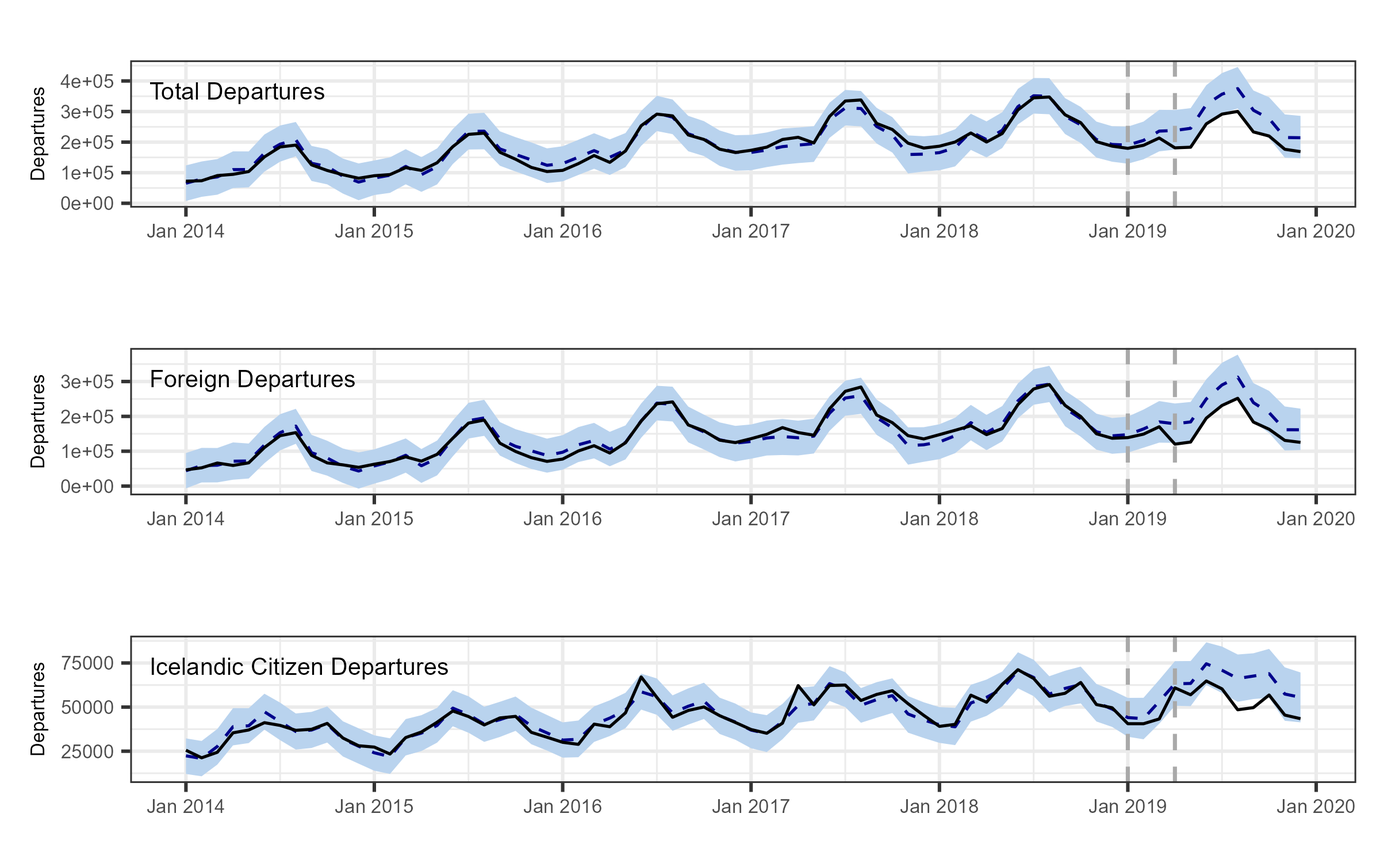
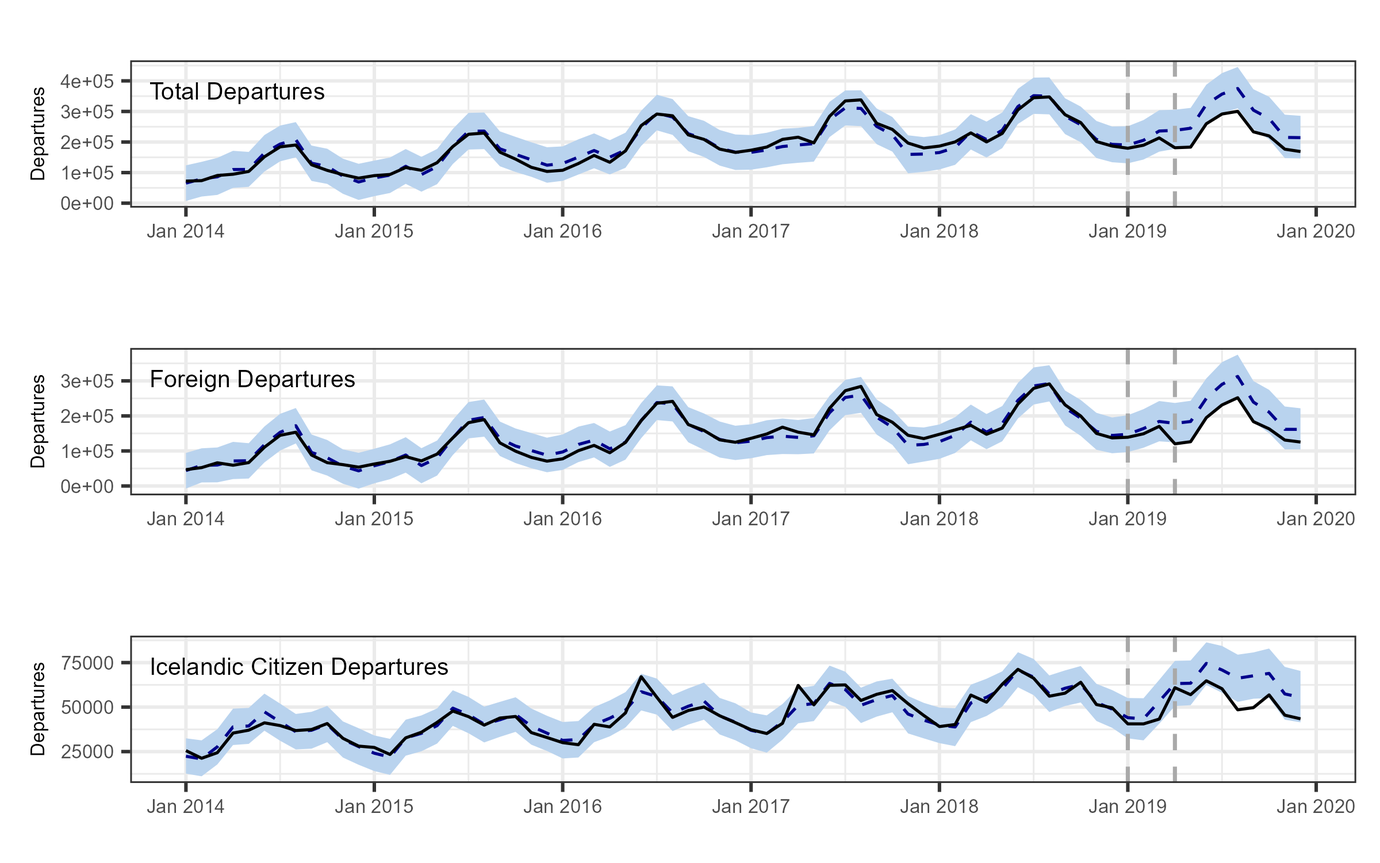
Updates from Overleaf

diff --git a/Paper/New.tex b/Paper/New.tex
@@ -1,5 +1,5 @@
 % AER-Article.tex for AEA last revised 22 June 2011
-\documentclass{AEA}
+\documentclass[12pt]{article}
 
 %%%%%% NOTE FROM OVERLEAF: The mathtime package is no longer publicly available nor distributed. We recommend using a different font package e.g. mathptmx if you'd like to use a Times font.
 % \usepackage{mathptmx}
@@ -13,19 +13,24 @@
 \usepackage{float}
 \usepackage{threeparttable}
 \usepackage{subcaption} % for subfigure/subtable style subcaptions
+ \usepackage{hyperref}
 \usepackage{pdflscape}
 \usepackage{adjustbox}
 \usepackage{rotating}
-\usepackage{fancyhdr}
-\pagestyle{fancy}
-\fancyhf{} % Clear header and footer
-\fancyfoot[C]{\textit{\small\thepage}} % Centered page number at the bottom
-\renewcommand{\headrulewidth}{0pt} % Centered page number at the bottom
-\pagestyle{fancy}
+%\usepackage{fancyhdr}
+\usepackage[margin=1in]{geometry}
+%\pagestyle{fancy}
+%\fancyhf{} % Clear header and footer
+%\fancyfoot[C]{\textit{\small\thepage}} % Centered page number at the bottom
+%\renewcommand{\headrulewidth}{0pt} % Centered page number at the bottom
+%\pagestyle{fancy}
 % Your document content here
 \captionsetup[figure]{position=top}
 \captionsetup[subfigure]{skip=6pt,justification=centering}
 \raggedbottom
+
+\usepackage{setspace}
+\doublespacing
 % The mathtime package uses a Times font instead of Computer Modern.
 % Uncomment the line below if you wish to use the mathtime package:
 %\usepackage[cmbold]{mathtime}
@@ -61,25 +66,25 @@
 \renewcommand{\fnum@figure}[1]{\figurename~\thefigure: }
 \makeatother
 
-\begin{document}
-
 
 \title{WOW Factor: Measuring Labor Loss from a Negative Tourism Supply Shock in Iceland}
 %\author{Luke Miller}
 \date{\today}
 
+\begin{document}
+
+\maketitle
+\clearpage
+
 \begin{abstract}
 Tourism-dependent economies face substantial risks when international visitor flows are disrupted, yet evidence on the short-run labor market effects of sudden tourism supply shocks remains limited. This paper exploits the unexpected bankruptcy of WOW Air, a low-cost airline, in 2019 as a natural experiment that sharply curtailed international tourism to Iceland. Using a Bayesian Structural Time Series model, I estimate labor market outcomes relative to a counterfactual in which the airline did not exit. I find that WOW Air’s collapse reduced international passenger arrivals by more than 20\% and tourism employment by 8\% over the subsequent nine months, relative to the counterfactual, including a 4\% year-over-year decline in tourism jobs. Excluding air transport, tourism employment declined by 6.6\% relative to the counterfactual. At the national level, unemployment was nearly 50\% higher than would otherwise have been expected. These results highlight the vulnerability of tourism-dependent economies to sudden transport disruptions.
 \\ 
 \\
-\normalfont
-\noindent\textbf{Keywords:}  tourism employment; air transport; tourism supply shock; economic vulnerability; counterfactual analysis;  natural experiment
+\textbf{Keywords:}  tourism employment; air transport; tourism supply shock; economic vulnerability; counterfactual analysis;  natural experiment
 \end{abstract}
+\clearpage
 
 
-\maketitle
-
-\pagebreak
 
 \section{Introduction}\label{sec:Introduction}
 The COVID-19 pandemic revealed the acute vulnerabilities of tourism-dependent economies, with international shutdowns exposing the fragility of over-reliance on a single sector. \citet{duro_2021_covid19} show that regions with higher tourism concentrations experienced disproportionate exposure to pandemic losses. \citet{jczmyk_2023_impact} identify how tourist behaviors and choices shifted in response to health risks and uncertainty. \citet{yeh_2020_tourism} and \citet{kreiner_2020_national} evaluate optimal recovery strategies, while \citet{fotiadis_2021_the} and \citet{kare_2020_impact} provide forecasts of tourism impacts and recovery trajectories under varying conditions. \citet{sigala_2020_tourism} reflects more broadly on the changed research landscape, emphasizing the unprecedented scope of the pandemic and the challenge of generalizing from its impacts. Taken together, this literature highlights how tourism reliance can create vulnerabilities for associated labor markets, but also how unique the pandemic was in both scale and global reach. At the same time, it leaves unresolved the question of replicability: while COVID-19 exposed the sector’s vulnerabilities in an extraordinary way, the shock was shaped by many confounding factors beyond tourism itself, making it difficult to entirely isolate effects or anticipate the size of future disruptions. This uncertainty underscores the importance of identifying more tractable episodes to guide policy responses aimed at mitigating the labor market and fiscal risks of sudden tourism contractions.
@@ -87,6 +92,7 @@ The COVID-19 pandemic revealed the acute vulnerabilities of tourism-dependent ec
 Beyond the pandemic, structural reliance on foreign tourism may create inherent economic vulnerabilities due to dependence on external visitor flows. \citet{nguyen_2021_the} find that a greater concentration of international tourism increases economic vulnerability, while \citet{canh_2020_domestic} show that domestic tourism can reduce it. \citet{wang_2022_international} identify a threshold effect: at lower income levels international tourism heightens vulnerability, while at higher incomes it promotes diversification. However, these studies rely on international panel regressions where vulnerability is measured through the Economic Vulnerability Index (EVI) \citep{feindouno_2016_the}, rather than observed economic responses. Because the EVI includes export concentration as a component, and international tourism is classified as an export, this creates endogeneity concerns. Moreover, the index captures exposure to shocks but not resilience to withstand them. Meanwhile, the astounding resilience of the industry in response to crises that dissuade visits, is highlighted in a complementary set of studies. \citet{saleh_2011_do} document that tourism shocks in Thailand are transitory, and \citet{yucel_2020_are} extend this finding to the top 20 tourism-receiving countries, with demand reverting once structural breaks are accounted for. \citet{morakabati_2019_a} shows that, following the Arab Spring, regional international tourism receipts recovered faster than the broader economy. These studies illustrate both the fragility and resilience of the sector, but provide little causal evidence of how sudden supply disruptions affect labor markets or how policy may mitigate their impacts. 
 
 Tourism has also been closely linked to economic growth. \citet{gwenhure_2017_tourism} synthesize this literature into four hypotheses: that tourism causes growth, that growth causes tourism, that the relationship is bidirectional, or that there is no causal link. Studies provide evidence in support of each, though the tourism-led growth channel receives somewhat stronger backing overall. Within island contexts, results are less conclusive. \citet{roudi_2018_new} find bi-directionality between tourism and growth in small island developing states, while \citet{kumar_2021_tourism} show country-dependent effects in nations in the pacific. Using an augmented Solow growth framework, Using panel data from 19 countries, \citet{seetanah_2011_assessing} find that tourism contributes more significantly to economic growth in island economies than in other developing and developed countries. At a regional scale, \citet{faber_2019_tourism} find that tourism in Mexico produces strong local employment and GDP gains through manufacturing spillovers, though these effects are muted at the national level. This body of work underscores the importance of tourism for growth and employment, but offers limited insight into contractionary episodes or how labor market rigidities might constrain adjustment when shocks occur.
+
 
 These strands of research establish that tourism shocks are closely tied to labor outcomes, that tourism-dependent economies face structural vulnerabilities - yet rebound quickly, and that tourism plays a central role in growth. Low-cost carriers (LCCs) provide a further dimension to the analysis, as WOW Air itself operated under this model. Low-Cost Carriers (LCCs) have been shown to play a unique role in shaping tourism supply. \citet{alves_2017_price} describe how LCCs operate as price-discriminating complements, targeting more price-sensitive markets. Case studies across Saudi Arabia, Poland, Spain, New Zealand, and Italy demonstrate that LCC entry expands demand by creating new, previously uncontested markets \citep{alsumairi_2017_a, pulina_2010_have, rey_2011_effect, hongtsui_2017_does, verarebollo_2009_spread}. By artificially inflating arrivals through lower fares and novel routes, LCCs increase reliance on an expanded visitor base that may vanish if those routes are withdrawn. Their sudden contraction therefore amplifies the consequences of supply shocks, as other carriers are often unable to replicate the same capacity or reach the same markets. At the same time, because LCCs create new demand rather than reshuffling existing passengers, their exit provides a sharp and isolated test of how supply-side shocks cascade into labor markets. 
 \begin{sloppypar}
@@ -105,7 +111,6 @@ Using a Bayesian Structural Time Series (BSTS) model~\citep{brodersen_2015_infer
 Greenland, Denmark, Norway, and the Faroe Islands are used as control groups to estimate Iceland’s counterfactual. These countries were selected based on geographic proximity and similarities in size, tourism concentration, seasonality, and export reliance, as summarized in Table \ref{tab:summary_table}. Sweden, Ireland, and the United Kingdom were also considered, but ultimately excluded due to larger differences in size, economic diversification, and geography. While Greenland and the Faroe Islands are autonomous territories within the Kingdom of Denmark, Denmark itself is included as a separate control due to its role as a primary regional trading partner whose economic fluctuations often co-vary with those of Iceland and its territories. As shown in Appendix \ref{sec:Robustness}, the estimated impacts are robust to alternative specifications of the control group.
 
 \input{Tables/Table 1.tex}
-
 \subsection{Dataset}
 
 I assemble a monthly cross-national time-series dataset of tourism and economic indicators from national statistical agencies.\footnote{Iceland: \textit{hagstofa.is} (2024); Faroe Islands: \textit{hagstova.fo} (2024); Greenland: \textit{bank.stat.gl} (2024); Denmark: \textit{statbank.dk} (2024); Norway: \textit{ssb.no} (2024).} Nordic regional data was collected from \textit{nordicstatistics.org}.\footnote{\textit{nordicstatistics.org} (2024).} Where official monthly data were unavailable, I supplemented with the World Bank Open Data Portal\footnote{\textit{data.worldbank.org} (2024).} and The Global Economy.\footnote{\textit{theglobaleconomy.com} (2024).} Indicators were excluded if coverage was incomplete across the pre- or post-intervention period, if they were linear combinations of other variables, or if they were subject to high measurement noise (e.g., survey data with small samples).  
@@ -155,7 +160,7 @@ Control selection is handled via spike-and-slab priors, which induce sparsity an
     \caption{Posterior Inclusion Probabilities}
     \label{fig:coefficients_arrivals_plot}
 
-    \includegraphics[width=1\textwidth]{Figures/Figure 2.pngg}
+    \includegraphics[width=1\textwidth]{Figures/Figure 2.png}
 
     \vspace{0.3em}
 
@@ -165,19 +170,21 @@ Control selection is handled via spike-and-slab priors, which induce sparsity an
     \textit{Note:} Each cell represents a separate regression. The country listed under Treated Country is who we are applying the treatment to. All others (less Iceland) are used as controls groups. The columns represent varying length of training periods used. 1 year prior compares the treatment effect using 1 year of pre-trend data. The number of stars denotes the significance level of the coefficient estimates based on p-values, where *** indicates $p<0.01$, ** indicates $p<0.05$, and * indicates $p<0.10$.}\par}
 \end{figure}
 
+
 \paragraph{Model Calibration}
 To implement the model, I use the \texttt{CausalImpact} package in R \citep{brodersen_2015_inferring}. Being a flexible tool, it allows for numerous user calibrating inputs. The choice of pre-intervention window reflects a trade-off between having longer training periods and ensuring rich covariate coverage. Data availability improves substantially after 2014 (see Figure \ref{fig:recent_information_bias}), so I test specifications beginning in each year from 2000–2018, with treatment fixed in April 2019. Figure \ref{fig:time_calibration} reports cumulative impacts across these specifications. The estimates vary somewhat by training start date but consistently indicate a large causal reduction in airline departures. Given structural changes in Iceland’s economy toward tourism beginning around 2012,\footnote{WOW Air began operations in May 2012; see \citet{diebold_1987_structural} for discussion of structural breaks.} I adopt 2014 as the start year for the main analysis. This balances adequate time-series coverage with robustness and placebo validity. Across all training windows (2000–2018), the mean cumulative impact is approximately –487,000 passengers and the median –458,000, with the 2014 specification yielding an estimated –538,000 passengers.
 
 \begin{figure}[h!]
     \centering
-        \caption{Cumulative effects across pre-periods}
-    \includegraphics[.9\textwidth]{Figures/Figure 3.png}
+    \caption{Cumulative effects across pre-periods}
+    \includegraphics[width=\textwidth]{Figures/Figure 3.png}
     \label{fig:time_calibration}
-    \begin{minipage}{0.9\textwidth}
+    
+    \begin{minipage}{\textwidth}
         \footnotesize \textit{Figure Statistics:}\\
-        Median cumulative change: –458,000 departing passengers.  \\  
-        Mean cumulative change: –487,000 departing passengers.  \\  
-        2014 estimate: –538,000 departing passengers.
+        Median cumulative change: --458,000 departing passengers.\\
+        Mean cumulative change: --487,000 departing passengers.\\
+        2014 estimate: --538,000 departing passengers.
     \end{minipage}
 \end{figure}
 
@@ -249,7 +256,7 @@ While this pattern is not formally tested, the results suggest that the lost cap
     \makeatother
 
     \resizebox{\textwidth}{!}{%
-      \input{Tables/passenger_nationality}%
+      \input{Paper/Figures/Figure 6b}%
     }
 
     \let\table\origtable \let\endtable\origendtable \let\caption\origcaption
@@ -273,7 +280,6 @@ Having shown that the closure of WOW Air resulted in a significant tourism suppl
 \centering
 \caption{National labor impacts}
 \label{fig:national_labor_grouped}
-
 % --- Top panel: summary table ---
 \begin{subfigure}[t]{\textwidth}
   \centering
@@ -307,7 +313,7 @@ Having shown that the closure of WOW Air resulted in a significant tourism suppl
   \centering
   {\scriptsize \subcaption{Monthly Effect on Unemployed Persons and Unemployment Rate}}
   \vspace{-0.5em} % slightly tighter above the graphic (like your previous figure)
-  \includegraphics[width=0.72\linewidth]{Figures/Figure 7a.png}
+  \includegraphics[width=0.9\linewidth]{Figures/Figure 7a.png}
 
   \vspace{0.25em}
   \parbox{\linewidth}{\footnotesize \textit{Note:} Solid line shows observed values and dashed line shows the synthetic counterfactual. Monthly series are plotted as differences relative to the counterfactual}
@@ -418,9 +424,6 @@ First, I vary the set of control countries to ensure that results are not driven
 \end{table}
 
 
-
-
-
 \subsubsection{Covariate Grouping Selection}\label{sec:robustness2}
 
 Second, I test whether results depend on the grouping of covariates. Referring back to Table \ref{tab:information_asymmetry}, I estimate the model using only tourism-related indicators, and compare it with specifications that include alternative groupings such as transport, wages, or other economic indicators. As shown in Table \ref{tab:choice_control_coeffs}, estimated impacts range from –17.5\% to –24\% regardless of grouping. Extreme values are associated with lower prior fit (higher RMSE), reinforcing the choice to use tourism indicators in the main specification.  
@@ -467,9 +470,10 @@ In this specification, the set of covariates $x$ is restricted to tourism-relate
 \begin{figure}[h]
 \centering
 \caption{Projected Monthly Differences (No Time-Series Elements)}
-\includegraphics[width=\textwidth]{Figures/Figure 9.png}
-\begin{minipage}{0.6\textwidth}
-\footnotesize Notes: Difference between observed and estimated counterfactual monthly departures under a model without time-series elements.
+\includegraphics[width=\textwidth,height=0.7\textheight,keepaspectratio]{Figures/Figure 9.png}
+\begin{minipage}{0.8\textwidth}
+\footnotesize
+\textit{Notes:} Difference between observed and estimated counterfactual monthly departures under a model without time-series elements.
 \end{minipage}
 \label{fig:ts_drop_pointwise}
 \end{figure}
@@ -477,9 +481,10 @@ In this specification, the set of covariates $x$ is restricted to tourism-relate
 \begin{figure}[h]
 \centering
 \caption{Projected Cumulative Differences (No Time-Series Elements)}
-\includegraphics[width=\textwidth]{Figures/Figure 10.png}
-\begin{minipage}{0.6\textwidth}
-\footnotesize Notes: Cumulative difference between observed and estimated counterfactual departures under a model without time-series elements.
+\includegraphics[width=\textwidth,height=0.7\textheight,keepaspectratio]{Figures/Figure 10.png}
+\begin{minipage}{0.8\textwidth}
+\footnotesize
+\textit{Notes:} Cumulative difference between observed and estimated counterfactual departures under a model without time-series elements.
 \end{minipage}
 \label{fig:ts_drop_cumulative}
 \end{figure}
@@ -518,8 +523,6 @@ To explore sensitivity to the pre-intervention window, I estimate this model wit
 
 \setlength{\parskip}{\baselineskip}
 \pagebreak
-
-
 
 % Remove or comment out the next two lines if you are not using bibtex.
 \clearpage

diff --git a/Paper/Tables/Table 1.tex b/Paper/Tables/Table 1.tex
@@ -6,36 +6,19 @@
     \toprule
           & \textbf{Iceland} & \textbf{Faroe Islands} & \textbf{Greenland} & \textbf{Norway} & \textbf{Denmark} & \textbf{Sweden} & \textbf{Ireland} & \textbf{UK} \\
     \midrule
-Distance to Iceland (mi.) & Distance between Iceland and Greenland Countries, Closest Distance Between Borders, Airplane flight time (globefeed.com) & - & 181 & 272 & 339 & 917 & 774 & 670 & 492 & NA & NA & NA \\
-Nearest Country & NA & 181 & 181 & 18 & - & - & - & - & - & NA & NA & NA \\
-Distance to Nearest Country & Distance between Iceland and Greenland Countries, Closest Distance Between Borders, Airplane flight time (globefeed.com) & Faroe Islands & Iceland & Canada & Multiple & Multiple & Multiple & UK & Ireland & NA & NA & NA \\
-Nordic Countries & NA & X & X & X & X & X & X & NA & NA & NA & NA & NA \\
-Capital City & NA & Reykjavik & Torshavn & Nuuk & Oslo & Copenhagen & Stockholm & Dublin & London & NA & NA & NA \\
-Coordinates & NA & N 64° 09', E 21° 56' & N 62° 01', E 6° 46' & N 64° 10', E 51° 44' & N 59° 55', E 10° 45' & N 55° 41', E 12° 34' & N 59° 20', E 18° 04' & N 53° 21', E 6° 16' & N 51° 30', E 0° 08' & NA & NA & NA \\
-Max Day Length & NA & 0.88124999999999998 & 0.82291666666666663 & 0.88194444444444442 & 0.78472222222222221 & 0.73055555555555551 & 0.77569444444444446 & 0.70833333333333337 & 0.69305555555555554 & NA & NA & NA \\
-Min Day Length & NA & 0.17152777777777778 & 0.21388888888888888 & 0.17083333333333334 & 0.24583333333333332 & 0.29236111111111113 & 0.25347222222222221 & 0.3125 & 0.3263888888888889 & NA & NA & NA \\
-Seasonality (Difference Between Longest \& Shortest Day) & https://aa.usno.navy.mil/data/Dur\_OneYear & 0.70972222222222214 & 0.60902777777777772 & 0.71111111111111103 & 0.53888888888888886 & 0.43819444444444439 & 0.52222222222222225 & 0.39583333333333337 & 0.36666666666666664 & NA & NA & NA \\
-Population 2013 & NA & 323764 & 48418 & 56483 & 5079623 & 5614932 & 9600379 & 4623816 & 64128273 & NA & NA & NA \\
-Population 2018 & NA & 352721 & 50955 & 56023 & 5311916 & 5793636 & 10175214 & 4867316 & 66460344 & NA & Faroe Tourism Numbers & https://statbank.hagstova.fo/pxweb/en/H2/H2\_\_SS\_\_SS01/ferd\_sjoloft.px/table/tableViewLayout2/ \\
-Population 2018 (million) & NA & 0.35272100000000001 & 5.0955E-2 & 5.6023000000000003E-2 & 5.3119160000000001 & 5.7936360000000002 & 10.175214 & 4.8673159999999998 & 66.460344000000006 & NA & NA & NA \\
-Tourists 2013 & NA & 900000 & 116804 & 69055 & 4778000 & 26516000 & 10980000 & 8260000 & 33567000 & NA & Greenland Tourism Numbers & https://bank.stat.gl/pxweb/en/Greenland/Greenland\_\_TU\_\_TU20/TUXUPAX.px/table/tableViewLayout1/ \\
-Tourists 2018 & NA & 2488000 & 186714 & 85306 & 5688000 & 30801000 & 7440000 & 10926000 & 40283000 & NA & Arrivals & https://data.worldbank.org/indicator/ST.INT.ARVL?end=2018\&locations=IS-FO-DK-NO-SE-IE-GB\&start=2013 \\
-Annual Tourists per Person (2013) & NA & 2.7798025722439803 & 2.4124086083687883 & 1.2225802453835668 & 0.94062098702994301 & 4.7224080362861027 & 1.1437048474857086 & 1.7864032651818325 & 0.52343527167806314 & NA & Population & https://data.worldbank.org/indicator/SP.POP.TOTL?end=2018\&locations=GL-IS-FO-IE-SE-DK-NO\&start=2013 \\
-Annual Tourists per Person (2018) & NA & 7.0537336875320724 & 3.6642920223726816 & 1.5226960355568249 & 1.0708000653624794 & 5.3163505612019808 & 0.73118855288940365 & 2.2447689856175352 & 0.60612084704226021 & NA & NA & NA \\
-5 Year Change in Tourism Per Person & NA & 1.5374944817890377 & 0.51893506334749251 & 0.24547737566224215 & 0.13839695278709785 & 0.12577111514975714 & -0.36068422329691985 & 0.25658580532713438 & 0.15796714481834262 & NA & NA & NA \\
-Fish, Animals, and Animal Products as Export Product Share (2009) & NA & 0.37509999999999999 & 0.86560000000000004 & 0.56130000000000002 & 5.96E-2 & 0.106 & 1.8200000000000001E-2 & 3.95E-2 & 1.4199999999999999E-2 & NA & NA & NA \\
-(Live Animals, Meat, Fish, Dairy, Products of Animal Origin) & NA & NA & NA & NA & NA & NA & NA & NA & NA & NA & NA & NA \\
-NA & NA & NA & NA & NA & NA & NA & NA & NA & NA & NA & NA & NA \\
-NA & NA & NA & NA & NA & NA & NA & NA & NA & NA & NA & NA & NA \\
-Exports & NA & https://wits.worldbank.org/CountryProfile/en/Country/GBR/StartYear/2009/EndYear/2009/TradeFlow/Export/Indicator/XPRT-PRDCT-SHR/Partner/WLD/Product/all-groups & NA & NA & NA & NA & NA & NA & NA & NA & NA & NA \\
+    Nordic Country & X & X & X & X & X & X & - & - \\
+    Distance to Iceland (mi.) & - & 181 & 272 & 339 & 917 & 774 & 670 & 492 \\
+    Seasonality (Difference Between Longest \& Shortest Day) & 17:02 & 14:37 & 17:04 & 12:56 & 10:31 & 12:32 & 9:30 & 8:48 \\
+    Population 2018 (million) & 0.35 & 0.05 & 0.06 & 5.31 & 5.79 & 10.18 & 4.87 & 66.46 \\
+    Annual Tourists per Capita (2013) & 2.78 & 2.41 & 1.22 & 0.94 & 4.72 & 1.14 & 1.79 & 0.52 \\
+    Annual Tourists per Capita (2018) & 7.05 & 3.66 & 1.52 & 1.07 & 5.32 & 0.73 & 2.24 & 0.61 \\
+    5 Year Change in Tourism Per Capita & 154\% & 52\% & 25\% & 14\% & 13\% & -36\% & 26\% & 16\% \\
+    Fish, Animals, and Animal Products as Export Product Share (2009) & 38\% & 87\% & 56\% & 6\% & 11\% & 2\% & 4\% & 1\% \\
     \bottomrule
-\end{tabular}%
+    \end{tabular}%
 }
-\begin{tablenotes}
-Table notes environment without optional leadin.
-\end{tablenotes}
-\begin{tablenotes}[Source]
-Table notes environment with optional leadin (Source, in this case).
+\footnotesize\begin{tablenotes}[Source:]
+1. Globefeed.com, 2. US Naval Observatory Astronomical Applications Department, 3. Nordicstatistics.org, 4. World Bank
 \end{tablenotes}
 \end{table}
 

diff --git a/Paper/Tables/Table 6.tex b/Paper/Tables/Table 6.tex
@@ -1,22 +1,14 @@
-\begin{table}
 
-\caption{Forecasted Change in Tourism From Different Coefficient Groups}
-\centering
-\begin{tabular}[t]{l|l|r|r|r|r|r}
+\begin{tabular}[t]{l|r|r|r|r|r|r}
 \hline
 Indicator & Relative Impact (\%) & 9-Month Cumulative Impact & 95\% CI Upper & 95\% CI Lower & p-value & RMSE (priors)\\
 \hline
-All Indicators & -22.31*** & -583478 & -358105 & -806660 & 2e-04 & 11422\\
+Registered Rental Vehicles & -16.97 & -46414 & -17085 & -71118 & 0.0004 & 1020\\
 \hline
-Passenger Indicators & -17.55*** & -435721 & -207270 & -707463 & 4e-04 & 15277\\
+Total Fuel Purchases (at Pump) & -10.26 & -26555 & -767 & -58182 & 0.0219 & 1037\\
 \hline
-Tourism Indicators & -20.56*** & -533643 & -239940 & -939052 & 2e-04 & 13530\\
+Foreign Fuel Purcahses (at Pump) & -22.92 & -12764 & -1685 & -23213 & 0.0109 & 368\\
 \hline
-Labor Indicators & -22.16*** & -578100 & -359883 & -792846 & 2e-04 & 11089\\
-\hline
-Other Indicators & -23.63*** & -630521 & -361728 & -898279 & 2e-04 & 26532\\
-\hline
-Mean & -21.24*** & -552293 & -305385 & -828860 & 2e-04 & 15570\\
+Local Fuel Purchases (at Pump) & -10.05 & -20814 & -1695 & -36779 & 0.0181 & 828\\
 \hline
 \end{tabular}
-\end{table}

diff --git a/Paper/Tables/Table 3.tex b/Paper/Tables/Table 3.tex
@@ -1,7 +1,3 @@
-\begin{table}[!h]
-\centering
-\caption{\label{tab:tab:specialization}Iceland Sectoral Employment Concentration}
-\centering
 \begin{tabular}[t]{l|l|l|l|l|l}
 \hline
 Indicator & 2010 & 2018 & 2019 & \% Change, 2010-2018 & \% Change, 2018-2019\\
@@ -27,4 +23,3 @@ Indicator & 2010 & 2018 & 2019 & \% Change, 2010-2018 & \% Change, 2018-2019\\
 \hspace{1em}Other Tourism Employees as \% of All Employees & 0.65\% & 1.45\% & 1.35\% & 122.09\% & -6.60\%\\
 \hline
 \end{tabular}
-\end{table}

diff --git a/Paper/Tables/Table 5.tex b/Paper/Tables/Table 5.tex
@@ -1,7 +1,4 @@
-\begin{table}
 
-\caption{Choice of Control Countries}
-\centering
 \begin{tabular}[t]{l|l|r|r|r|r|r}
 \hline
 Omitted Control Country & Relative Impact (\%) & 9-Month Cumulative Impact & 95\% CI Upper & 95\% CI Lower & p-value & RMSE (priors)\\
@@ -27,4 +24,3 @@ Norway \& Faroe Islands & -20.98*** & -552702 & -221496 & -1006327 & 2e-04 & 137
 Mean & -23.35*** & -629529 & -326375 & -1006140 & 2e-04 & 17190\\
 \hline
 \end{tabular}
-\end{table}

diff --git a/Paper/Figures/Figure 6b.tex b/Paper/Figures/Figure 6b.tex
@@ -1,0 +1,12 @@
+
+\begin{tabular}[t]{l|r|r|r|r|r|r}
+\hline
+Indicator & Relative Impact (\%) & 9-Month Cumulative Impact & 95\% CI Upper & 95\% CI Lower & p-value & RMSE (priors)\\
+\hline
+Total Passengers & -20.61 & -533643 & -247147 & -941799 & 0.0002 & 13530\\
+\hline
+Icelandic Passengers & -16.75 & -100771 & -24792 & -182020 & 0.0012 & 2905\\
+\hline
+Foreign Passengers & -22.83 & -461168 & -214812 & -831063 & 0.0002 & 11895\\
+\hline
+\end{tabular}

diff --git a/Paper/Tables/Table 7.tex b/Paper/Tables/Table 7.tex
@@ -5,6 +5,6 @@
 \hline
 Simple OLS Regression, Time Series Omitted & -34.01\%*** & -115,986 & -1,043,878 & 5.2e-05 & 17,204\\
 \hline
-BSTS Preferred Model & -20.55\%*** & -59,294 & -533,643 & 2e-04 & 13,530\\
+BSTS Preferred Model & -20.61\%*** & -59,294 & -533,643 & 2e-04 & 13,530\\
 \hline
 \end{tabular}
